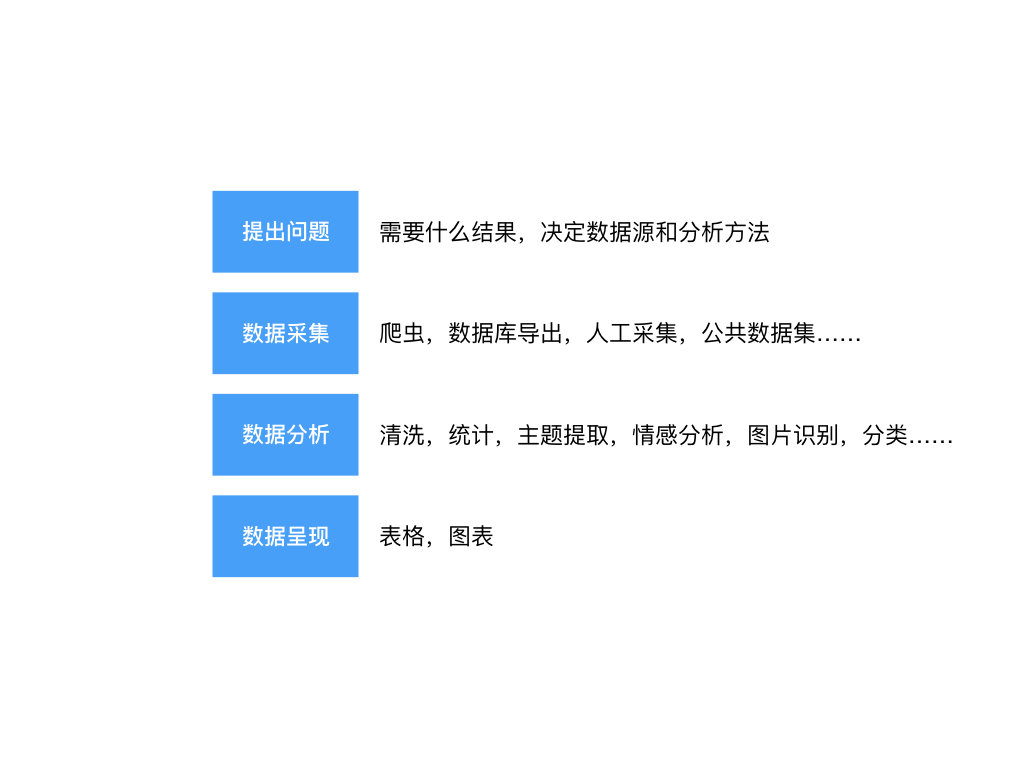
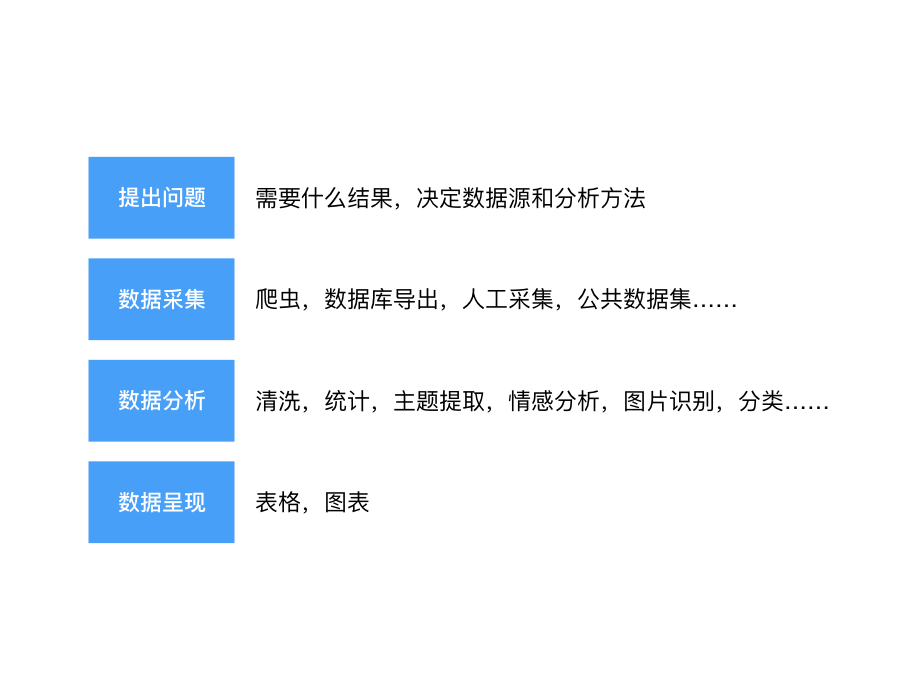
Update pics

Changed region(s): [[0.0933, 0.21, 0.9333, 0.78]]

diff --git a/2.Python/1-data-engineering-intro.md b/2.Python/1-data-engineering-intro.md
@@ -6,15 +6,18 @@
 
 数据工程，就是用工程的手段来处理数据。数据工程基本会涉及下面几个方面：
 
-![](http://ocuwjo7n4.bkt.clouddn.com/2018-10-19-1-intro.001.png)
+<!-- ![](http://ocuwjo7n4.bkt.clouddn.com/2018-10-19-1-intro.001.png) -->
+![](./01-intro/1-intro.001.png)
 
 一个运用数据处理的例子：
 
-![](http://ocuwjo7n4.bkt.clouddn.com/2018-10-19-1-intro.002.png)
+<!-- ![](http://ocuwjo7n4.bkt.clouddn.com/2018-10-19-1-intro.002.png) -->
+![](./01-intro/1-intro.002.png)
 
 上面的例子用到了一个 IT 工具：浏览器。而数据工程师处理的问题经常是这样的：
 
-![](http://ocuwjo7n4.bkt.clouddn.com/2018-10-19-1-intro.003.png)
+<!-- ![](http://ocuwjo7n4.bkt.clouddn.com/2018-10-19-1-intro.003.png) -->
+![](./01-intro/1-intro.003.png)
 
 要处理这个问题，需要掌握更多更强大的工具，并对数据有更深刻的认识。
 
